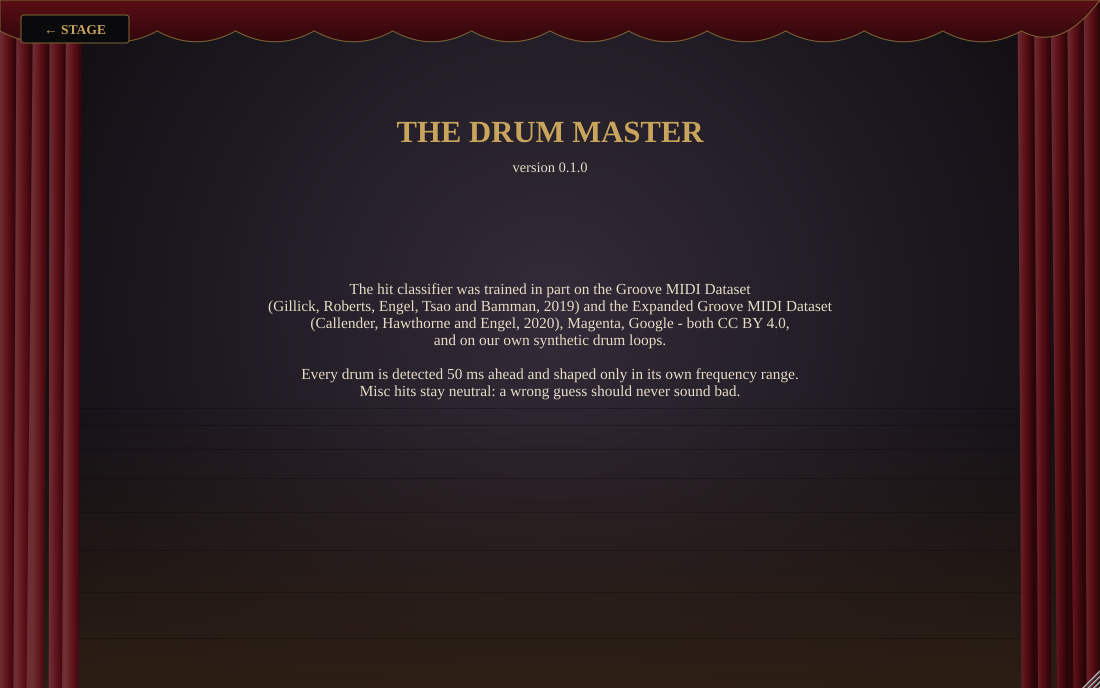
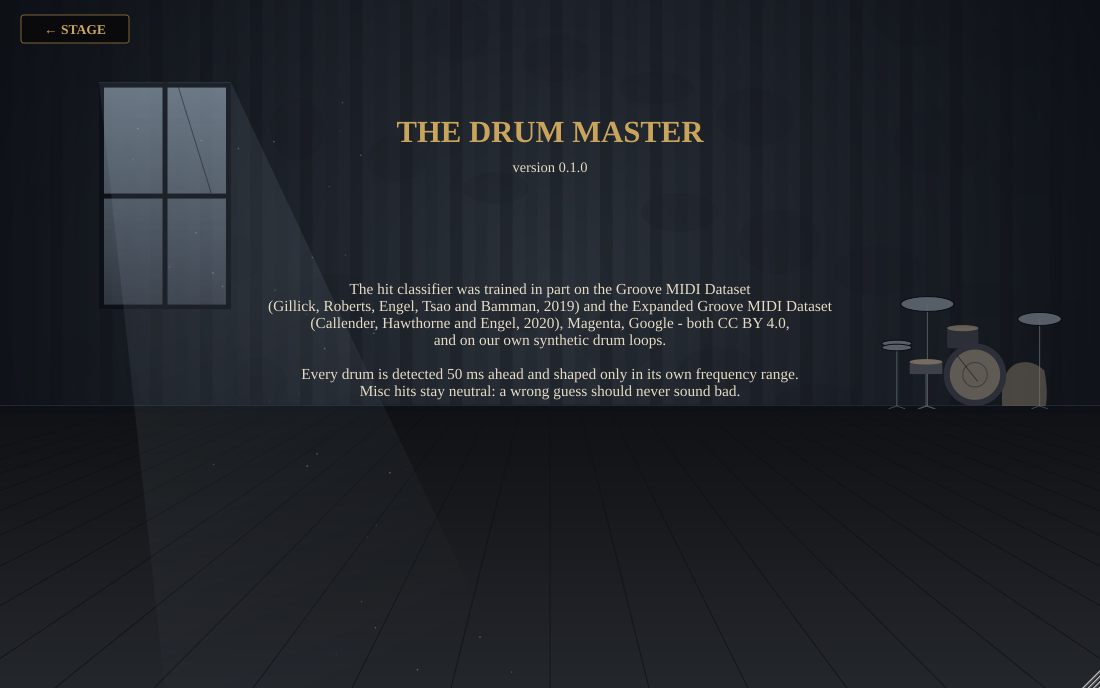
[untested] ui: late-night room, old drum set, the very tall master's legs
User's art direction: the stage background is now an eerie grey-blue
room late at night (striped wallpaper, a cracked window letting in
moonlight across the floorboards, dust in the light, an old dusty drum
set in the back corner). The master is very tall: his bowed head hangs in
at the top and his long skinny legs (charcoal pinstripes, knobbly knees,
curled pointed shoes) stand in the room behind the strings; sleeves in
the same suit. The Puppet Show keeps its velvet theatre. Screenshots
re-taken.

Claude-Session: https://claude.ai/code/session_01NXEaz6aNgkFcdc3PwdwKwW

diff --git a/Source/ui/Art.h b/Source/ui/Art.h
@@ -82,6 +82,195 @@ inline void stage (Graphics& g, Rectangle<float> r, float flicker)
     g.strokePath (val, juce::PathStrokeType (1.0f));
 }
 
+/** Late at night in a dark, bare room (grey, a little blue): wallpaper, a tall window letting in
+    moonlight that falls across the floorboards, an old dusty drum set in the back corner, dust
+    drifting in the light. `time` animates the dust, `flicker` dims everything for a moment. */
+inline void room (Graphics& g, Rectangle<float> r, float flicker, float time)
+{
+    const float horizon = r.getY() + r.getHeight() * 0.6f;   // where the wall meets the floor
+    const auto vp = Point<float> (r.getCentreX(), r.getY() + r.getHeight() * 0.42f);   // vanishing point
+
+    // back wall: faded vertical wallpaper stripes, darker towards the corners
+    g.setGradientFill (juce::ColourGradient (c::wall.brighter (0.08f * flicker), vp.x, vp.y, c::wallDark, r.getX(), r.getY(), true));
+    g.fillRect (r.withBottom (horizon));
+    for (int i = 0; i < 44; ++i)
+    {
+        const float x = r.getX() + r.getWidth() * static_cast<float> (i) / 44.0f;
+        g.setColour (c::wallDark.withAlpha (i % 2 == 0 ? 0.25f : 0.1f));
+        g.fillRect (Rectangle<float> (x, r.getY(), r.getWidth() / 88.0f, horizon - r.getY()));
+    }
+    for (int i = 0; i < 30; ++i)   // damp stains, fixed pattern
+    {
+        const float x = r.getX() + r.getWidth() * std::fmod (static_cast<float> (i) * 0.6180339f, 1.0f);
+        const float y = r.getY() + (horizon - r.getY()) * std::fmod (static_cast<float> (i) * 0.4142135f + 0.1f, 1.0f);
+        g.setColour (c::wallDark.withAlpha (0.12f));
+        g.fillEllipse (Rectangle<float> (40.0f + static_cast<float> ((i * 37) % 60), 26.0f + static_cast<float> ((i * 53) % 40)).withCentre ({ x, y }));
+    }
+
+    // floor: boards running towards the vanishing point
+    g.setGradientFill (juce::ColourGradient (c::floorBoard.darker (0.6f), 0.0f, horizon, c::floorBoard.brighter (0.05f), 0.0f, r.getBottom(), false));
+    g.fillRect (r.withTop (horizon));
+    g.setColour (c::wallDark.withAlpha (0.7f));
+    for (int i = -14; i <= 14; ++i)
+    {
+        const float bx = vp.x + static_cast<float> (i) * r.getWidth() * 0.09f;
+        const float t = (horizon - vp.y) / (r.getBottom() - vp.y);
+        g.drawLine (vp.x + (bx - vp.x) * t, horizon, bx, r.getBottom(), 1.0f);
+    }
+    // baseboard
+    g.setColour (c::wallDark);
+    g.fillRect (Rectangle<float> (r.getX(), horizon - 8.0f, r.getWidth(), 8.0f));
+    g.setColour (c::oldShell.withAlpha (0.5f));
+    g.drawHorizontalLine (juce::roundToInt (horizon - 8.0f), r.getX(), r.getRight());
+
+    // the window, high on the left, and its cold light across the floor
+    const auto win = Rectangle<float> (r.getX() + r.getWidth() * 0.09f, r.getY() + r.getHeight() * 0.12f, r.getWidth() * 0.12f, r.getHeight() * 0.33f);
+    g.setGradientFill (juce::ColourGradient (c::moon.withAlpha (0.55f * flicker), win.getCentreX(), win.getY(), c::moon.withAlpha (0.18f), win.getCentreX(), win.getBottom(), false));
+    g.fillRect (win);
+    g.setColour (c::wallDark);
+    g.drawRect (win, 5.0f);
+    g.fillRect (Rectangle<float> (win.getCentreX() - 2.5f, win.getY(), 5.0f, win.getHeight()));
+    g.fillRect (Rectangle<float> (win.getX(), win.getCentreY() - 2.5f, win.getWidth(), 5.0f));
+    g.setColour (c::wallDark.withAlpha (0.55f));   // a crack across one pane
+    g.drawLine (win.getX() + win.getWidth() * 0.6f, win.getY() + 4.0f, win.getX() + win.getWidth() * 0.85f, win.getCentreY() - 3.0f, 1.0f);
+    Path shaft;
+    shaft.startNewSubPath (win.getX(), win.getY());
+    shaft.lineTo (win.getRight(), win.getY());
+    shaft.lineTo (win.getRight() + r.getWidth() * 0.26f, r.getBottom());
+    shaft.lineTo (win.getX() + r.getWidth() * 0.06f, r.getBottom());
+    shaft.closeSubPath();
+    g.setGradientFill (juce::ColourGradient (c::moon.withAlpha (0.10f * flicker), win.getCentreX(), win.getBottom(), c::moon.withAlpha (0.0f), win.getCentreX() + r.getWidth() * 0.15f, r.getBottom(), false));
+    g.fillPath (shaft);
+
+    // dust drifting in the moonlight
+    for (int i = 0; i < 40; ++i)
+    {
+        const float seed = static_cast<float> (i) * 12.9898f;
+        const float fx = std::fmod (std::sin (seed) * 43758.5453f, 1.0f);
+        const float fy = std::fmod (std::fabs (std::cos (seed * 1.3f) * 23421.631f) + time * 0.012f * (0.5f + std::fabs (fx)), 1.0f);
+        const float y = win.getY() + (r.getBottom() - win.getY()) * fy;
+        const float x = win.getX() + (y - win.getY()) * 0.3f + std::fabs (fx) * win.getWidth() * 1.8f + 6.0f * std::sin (time * 0.3f + seed);
+        g.setColour (c::moon.withAlpha (0.25f + 0.2f * std::sin (time + seed)));
+        g.fillEllipse (Rectangle<float> (1.6f, 1.6f).withCentre ({ x, y }));
+    }
+}
+
+/** An old, dusty drum set standing in the dark back corner (base line = the floor under it). */
+inline void oldDrumSet (Graphics& g, Point<float> base, float scale, float flicker)
+{
+    const auto col = [flicker] (Colour cc) { return cc.withMultipliedBrightness (0.55f + 0.25f * flicker); };
+    auto stand = [&] (float x, float topY) {
+        g.setColour (col (c::oldMetal).withAlpha (0.8f));
+        g.drawLine (x, base.y, x, topY, 1.6f * scale);
+        g.drawLine (x, base.y, x - 12.0f * scale, base.y + 4.0f * scale, 1.2f * scale);
+        g.drawLine (x, base.y, x + 12.0f * scale, base.y + 4.0f * scale, 1.2f * scale);
+    };
+    auto disc = [&] (Point<float> cc, float w, float tilt) {
+        const auto d = Rectangle<float> (w, w * tilt).withCentre (cc);
+        g.setColour (col (c::oldMetal).withAlpha (0.9f));
+        g.fillEllipse (d);
+        g.setColour (col (c::wallDark));
+        g.drawEllipse (d, 1.0f);
+    };
+    // cymbal stands behind
+    stand (base.x - 70.0f * scale, base.y - 150.0f * scale);
+    disc ({ base.x - 70.0f * scale, base.y - 150.0f * scale }, 78.0f * scale, 0.28f);
+    stand (base.x + 95.0f * scale, base.y - 128.0f * scale);
+    disc ({ base.x + 95.0f * scale, base.y - 128.0f * scale }, 64.0f * scale, 0.3f);
+    // hi-hat on the left
+    stand (base.x - 115.0f * scale, base.y - 88.0f * scale);
+    disc ({ base.x - 115.0f * scale, base.y - 92.0f * scale }, 44.0f * scale, 0.22f);
+    disc ({ base.x - 115.0f * scale, base.y - 86.0f * scale }, 44.0f * scale, 0.22f);
+    // floor tom under a dust sheet
+    Path sheet;
+    const float fx = base.x + 70.0f * scale;
+    sheet.startNewSubPath (fx - 30.0f * scale, base.y);
+    sheet.quadraticTo (fx - 34.0f * scale, base.y - 50.0f * scale, fx - 10.0f * scale, base.y - 62.0f * scale);
+    sheet.quadraticTo (fx + 14.0f * scale, base.y - 70.0f * scale, fx + 32.0f * scale, base.y - 52.0f * scale);
+    sheet.quadraticTo (fx + 38.0f * scale, base.y - 20.0f * scale, fx + 34.0f * scale, base.y);
+    sheet.closeSubPath();
+    g.setColour (col (c::boneShadow).withAlpha (0.55f));
+    g.fillPath (sheet);
+    // bass drum and a rack tom on it
+    const auto kick = Rectangle<float> (92.0f * scale, 92.0f * scale).withCentre ({ base.x, base.y - 46.0f * scale });
+    g.setColour (col (c::oldShell));
+    g.fillEllipse (kick);
+    g.setColour (col (c::boneShadow).withAlpha (0.7f));
+    g.fillEllipse (kick.reduced (9.0f * scale));
+    g.setColour (col (c::oldShell).withAlpha (0.7f));
+    g.drawEllipse (kick.reduced (28.0f * scale), 1.5f * scale);   // faded logo ring
+    g.setColour (col (c::wallDark).withAlpha (0.5f));
+    g.drawLine (kick.getX() + 20.0f * scale, kick.getY() + 18.0f * scale, kick.getCentreX() + 4.0f * scale, kick.getCentreY() + 10.0f * scale, 1.0f);   // a split in the head
+    const auto tom = Rectangle<float> (46.0f * scale, 30.0f * scale).withCentre ({ base.x - 18.0f * scale, kick.getY() - 8.0f * scale });
+    g.setColour (col (c::oldShell));
+    g.fillRoundedRectangle (tom, 4.0f * scale);
+    g.setColour (col (c::boneShadow).withAlpha (0.8f));
+    g.fillEllipse (tom.withHeight (9.0f * scale).translated (0.0f, -4.0f * scale));
+    // snare on its stand
+    stand (base.x - 72.0f * scale, base.y - 48.0f * scale);
+    const auto sn = Rectangle<float> (48.0f * scale, 18.0f * scale).withCentre ({ base.x - 72.0f * scale, base.y - 56.0f * scale });
+    g.setColour (col (c::oldShell).brighter (0.1f));
+    g.fillRect (sn);
+    g.setColour (col (c::boneShadow));
+    g.fillEllipse (sn.withHeight (8.0f * scale).translated (0.0f, -4.0f * scale));
+}
+
+/** The master's legs: very tall and skinny, from above the window down to the floor, standing in
+    the room behind the strings. Pinstriped trousers, knobbly knees, bony ankles, long pointed shoes. */
+inline void legs (Graphics& g, float centreX, float floorY, float sway, float scale)
+{
+    for (int side = -1; side <= 1; side += 2)
+    {
+        const float s = static_cast<float> (side);
+        const float hipX = centreX + s * 30.0f * scale + sway;
+        const auto knee = Point<float> (centreX + s * 92.0f * scale + sway * 0.5f, floorY * 0.5f);   // bowed outwards
+        const auto ankle = Point<float> (centreX + s * 60.0f * scale, floorY - 16.0f * scale);
+        const float thigh = 24.0f * scale, shin = 16.0f * scale;
+        Path leg;   // trouser outline: hip -> knee -> ankle, tapering
+        leg.startNewSubPath (hipX - thigh, -10.0f);
+        leg.lineTo (hipX + thigh, -10.0f);
+        leg.quadraticTo (knee.x + thigh * 0.8f, (knee.y - 10.0f) * 0.6f, knee.x + thigh * 0.55f, knee.y);
+        leg.quadraticTo (ankle.x + shin * 0.9f, (knee.y + ankle.y) * 0.5f, ankle.x + shin * 0.45f, ankle.y);
+        leg.lineTo (ankle.x - shin * 0.45f, ankle.y);
+        leg.quadraticTo (ankle.x - shin * 0.9f, (knee.y + ankle.y) * 0.5f, knee.x - thigh * 0.55f, knee.y);
+        leg.quadraticTo (knee.x - thigh * 0.8f, (knee.y - 10.0f) * 0.6f, hipX - thigh, -10.0f);
+        leg.closeSubPath();
+        g.setGradientFill (juce::ColourGradient (c::oldShell.darker (0.2f), knee.x - s * thigh, 0.0f, c::wallDark.darker (0.5f), knee.x + s * thigh, 0.0f, false));
+        g.fillPath (leg);
+        g.setColour (c::moon.withAlpha (0.28f));   // cold moonlit rim, so the silhouette reads
+        g.strokePath (leg, juce::PathStrokeType (1.2f * scale));
+        g.saveState();   // faint pinstripes
+        g.reduceClipRegion (leg);
+        g.setColour (c::oldMetal.withAlpha (0.18f));
+        for (int k = -3; k <= 3; ++k)
+        {
+            const float o = static_cast<float> (k) * thigh * 0.28f;
+            g.drawLine (hipX + o, -10.0f, knee.x + o * 0.7f, knee.y, 0.8f);
+            g.drawLine (knee.x + o * 0.7f, knee.y, ankle.x + o * 0.4f, ankle.y, 0.8f);
+        }
+        g.restoreState();
+        g.setColour (c::oldShell.withAlpha (0.6f));   // the knee pokes through the cloth
+        g.fillEllipse (Rectangle<float> (thigh * 1.1f, thigh * 0.9f).withCentre (knee));
+        // bony ankle, then the long pointed shoe pointing outwards
+        g.setColour (c::boneShadow);
+        g.fillRect (Rectangle<float> (shin * 0.55f, 10.0f * scale).withCentre (ankle.translated (0.0f, 6.0f * scale)));
+        Path shoe;
+        const float sy = floorY - 2.0f * scale;
+        shoe.startNewSubPath (ankle.x - s * 12.0f * scale, sy);
+        shoe.lineTo (ankle.x - s * 10.0f * scale, sy - 12.0f * scale);
+        shoe.quadraticTo (ankle.x + s * 10.0f * scale, sy - 16.0f * scale, ankle.x + s * 26.0f * scale, sy - 8.0f * scale);
+        shoe.quadraticTo (ankle.x + s * 52.0f * scale, sy - 6.0f * scale, ankle.x + s * 60.0f * scale, sy - 14.0f * scale);   // curled tip
+        shoe.quadraticTo (ankle.x + s * 50.0f * scale, sy + 1.0f, ankle.x + s * 20.0f * scale, sy);
+        shoe.closeSubPath();
+        g.setColour (c::night);
+        g.fillPath (shoe);
+        g.setColour (c::oldMetal.withAlpha (0.35f));
+        g.strokePath (shoe, juce::PathStrokeType (1.0f));
+        g.setColour (c::night.withAlpha (0.5f));   // shadow on the floor
+        g.fillEllipse (Rectangle<float> (70.0f * scale, 8.0f * scale).withCentre ({ ankle.x + s * 18.0f * scale, floorY + 2.0f * scale }));
+    }
+}
+
 /** The master's porcelain mask, cut off by the top edge: only chin, cheeks and the stitched smile. */
 inline void mask (Graphics& g, float cx, float visibleBottom, float width, float breathe)
 {
@@ -131,8 +320,10 @@ inline void hand (Graphics& g, Point<float> grip, float size, bool left, float s
     sleeve.lineTo (wrist.x - wristW, wrist.y);
     sleeve.quadraticTo (shoulderX - dir * size * 0.4f + sway, wrist.y * 0.4f, shoulderX - topW + sway, -20.0f);
     sleeve.closeSubPath();
-    g.setGradientFill (juce::ColourGradient (c::night, shoulderX, 0.0f, c::velvetDark.brighter (0.1f), wrist.x, wrist.y, false));
+    g.setGradientFill (juce::ColourGradient (c::night, shoulderX, 0.0f, c::oldShell.darker (0.25f), wrist.x, wrist.y, false));
     g.fillPath (sleeve);
+    g.setColour (c::moon.withAlpha (0.18f));
+    g.strokePath (sleeve, juce::PathStrokeType (1.0f));
     g.setColour (c::goldDim);   // frayed gold cuff
     g.drawLine (wrist.x - wristW, wrist.y, wrist.x + wristW, wrist.y, 2.0f);
     for (int i = 0; i < 5; ++i)

diff --git a/Source/PluginEditor.h b/Source/PluginEditor.h
@@ -195,7 +195,9 @@ public:
     void paint (juce::Graphics& g) override
     {
         const auto r = getLocalBounds().toFloat();
-        art::stage (g, r, model.flicker);
+        art::room (g, r, model.flicker, static_cast<float> (model.now));
+        art::oldDrumSet (g, { 975.0f, 406.0f }, 0.68f, model.flicker * 0.8f);
+        art::legs (g, 550.0f, 452.0f, model.sway * 1.5f, 1.0f);   // the master is very tall: his legs stand in the room
 
         layout();
         // the master: mask above, arms reaching down, hands holding the bar
@@ -417,9 +419,9 @@ public:
 
     void paint (juce::Graphics& g) override
     {
-        g.fillAll (colours::night);
-        // spotlight on the drum
-        g.setGradientFill (juce::ColourGradient (colours::stageLight.brighter (0.2f), 210.0f, 300.0f, colours::night, 210.0f, 620.0f, true));
+        g.fillAll (colours::wallDark);
+        // cold moonlight spot on the drum
+        g.setGradientFill (juce::ColourGradient (colours::wall.brighter (0.35f), 210.0f, 300.0f, colours::wallDark, 210.0f, 620.0f, true));
         g.fillEllipse (juce::Rectangle<float> (420.0f, 640.0f).withCentre ({ 210.0f, 330.0f }));
         g.setColour (colours::goldDim.withAlpha (0.5f));
         g.drawVerticalLine (400, 30.0f, 660.0f);
@@ -635,7 +637,8 @@ public:
 
     void paint (juce::Graphics& g) override
     {
-        art::stage (g, getLocalBounds().toFloat(), 1.0f);
+        art::room (g, getLocalBounds().toFloat(), 1.0f, 0.0f);
+        art::legs (g, 550.0f, 452.0f, 0.0f, 1.0f);
         art::hand (g, { 330.0f, 250.0f }, 150.0f, true, 0.0f, 440.0f);
         art::hand (g, { 770.0f, 250.0f }, 150.0f, false, 0.0f, 660.0f);
         art::mask (g, 550.0f, 110.0f, 230.0f, 0.0f);
@@ -666,7 +669,8 @@ public:
     void resized() override { back.setBounds (20, 14, 110, 30); }
     void paint (juce::Graphics& g) override
     {
-        art::stage (g, getLocalBounds().toFloat(), 1.0f);
+        art::room (g, getLocalBounds().toFloat(), 1.0f, 0.0f);
+        art::oldDrumSet (g, { 975.0f, 406.0f }, 0.68f, 0.8f);
         g.setFont (serif (34.0f, true));
         g.setColour (colours::gold);
         g.drawText ("THE DRUM MASTER", 200, 110, 700, 44, juce::Justification::centred);

diff --git a/Source/ui/Theme.h b/Source/ui/Theme.h
@@ -24,6 +24,13 @@ const juce::Colour glow       { 0xff8fd18a };   // sickly green: meters, playhea
 const juce::Colour wood       { 0xff4a3322 };
 const juce::Colour woodLight  { 0xff7a5a3c };
 const juce::Colour string     { 0xffcfc5b0 };
+// the late-night room (grey, dark, a little blue)
+const juce::Colour wall       { 0xff1c222c };
+const juce::Colour wallDark   { 0xff0d1016 };
+const juce::Colour moon       { 0xffa9bccf };
+const juce::Colour floorBoard { 0xff1a1d22 };
+const juce::Colour oldMetal   { 0xff7c8794 };
+const juce::Colour oldShell   { 0xff3a3f4a };
 } // namespace colours
 
 inline juce::Font serif (float height, bool bold = false)

diff --git a/REMOTE_LOG.md b/REMOTE_LOG.md
@@ -20,6 +20,7 @@
 ## Done this trip
 | Commit msg | Files | Verification level (0–4) | Notes |
 |---|---|---|---|
+| [untested] ui: late-night grey-blue room with an old drum set; the very tall master's legs in the room | Source/ui/{Art.h, Theme.h}, Source/PluginEditor.h, docs/04-ui-concept.md, docs/03-decisions-for-review.md, docs/screenshots/*, REMOTE_LOG.md | 2 | Built in sandbox, screenshots re-taken (user's art direction 2026-09-30) |
 | [untested] ui: phase 4 - the puppet stage editor (strings, Shadow Play, quick mix, deep edit, Puppet Show curtain, advanced, about) + screenshots | Source/PluginEditor.h, Source/ui/{Theme.h, Art.h, Widgets.h} (new, header-only), Source/PluginProcessor.* (string/transport/forget API, fresh instance listens), docs/04-ui-concept.md, docs/screenshots/*, docs/02-parameters.md (detect_mode default), docs/03-decisions-for-review.md, research/ui-screenshots.sh, REMOTE_LOG.md | 2 | Built in sandbox (Linux Release+LTO, no warnings from our code); pluginval strictness 5 SUCCESS incl. editor tests; screenshots from the Standalone under Xvfb. CMakeLists.txt NOT touched |
 | [untested] dsp: The Puppet Show engine (listen, correct, glide) + targets in the plugin's scale | PuppetShow.h (new), DrumEngine.h, DrumChannel.h (11 EQ slots, 8-10 reserved), test_puppet_show.cpp, research/puppet-show/{measure_kits.py, measure_rise.cpp, run_on_loops.cpp}, docs/05-puppet-show-targets-v1.md, docs/05-features.md, docs/03-decisions-for-review.md, REMOTE_LOG.md | 3 | gcc, clang, ASan/UBSan 12/12; plugin rebuilt, pluginval strictness 5 SUCCESS; bit-exact transparent with Puppet Show on and nothing measured; CI run 32 (0f3ba40) green Linux + Windows |
 | [untested] docs: Puppet Show v1 genre targets (average of 3 answers, kick rows anchored to 43 real kits) | prompts/answers/05-agent1.md, 05-agent2.md, research/puppet-show/{average_targets.py, measure_kits.py}, docs/05-puppet-show-targets-v1.md, docs/05-features.md, docs/03-decisions-for-review.md, REMOTE_LOG.md | 2 | Averaging + real-kit measurement run in sandbox; no plugin code changed |

diff --git a/docs/04-ui-concept.md b/docs/04-ui-concept.md
@@ -9,6 +9,21 @@
 > - **Screenshots:** in `docs/screenshots/`.
 > - **Background:** `docs/01-concept.md` (look and feel) and `docs/05-features.md` (F1, F2).
 
+## The room and the very tall master [user, 2026-09-30]
+- **Background:** an eerie, dark, grey room with a little blue in it, late at night.
+  - Faded striped wallpaper with damp stains.
+  - A tall cracked window high on the left, with cold moonlight falling in a shaft across the
+    floorboards and dust drifting in the light.
+  - An **old dusty drum set** in the dark back corner: a split bass-drum head, a floor tom under a
+    dust sheet, tarnished cymbals.
+  - The Puppet Show keeps its velvet theatre, because it's "the show".
+- **The master is very tall:** his bowed head (the mask) hangs in at the top, and **his legs stand
+  in the room behind the strings**.
+  - Very long, skinny and bowed outwards, with knobbly knees.
+  - Charcoal pinstripe trousers with a cold moonlit edge, and long curled pointed shoes on the
+    floor.
+  - His sleeves are the same charcoal suit.
+
 ## Art
 - **Everything is drawn in code as vector graphics** [Claude]. This environment has no AI image
   generator, and vector art stays sharp at every window size.

diff --git a/docs/03-decisions-for-review.md b/docs/03-decisions-for-review.md
@@ -412,6 +412,7 @@ edit, and strings side by side and centred. Claude decided the rest:
   - long bony hands with dark nails and frayed gold cuffs, arms reaching down from the body;
   - a wooden control bar.
 - **Colours:** black, maroon velvet, bone, dim gold, and a sickly green for "alive" things.
+- **Update (user):** the background is now a late-night grey-blue room with an old drum set, and the master is very tall, with his skinny legs standing in the room. The velvet stays only for The Puppet Show.
 - **Font:** the system serif.
 - **Top bar:** LISTEN (auto detect: clears the strings and forgets the loop), + STRING,
   PUPPET SHOW, bypass (power symbol), ? (about).
